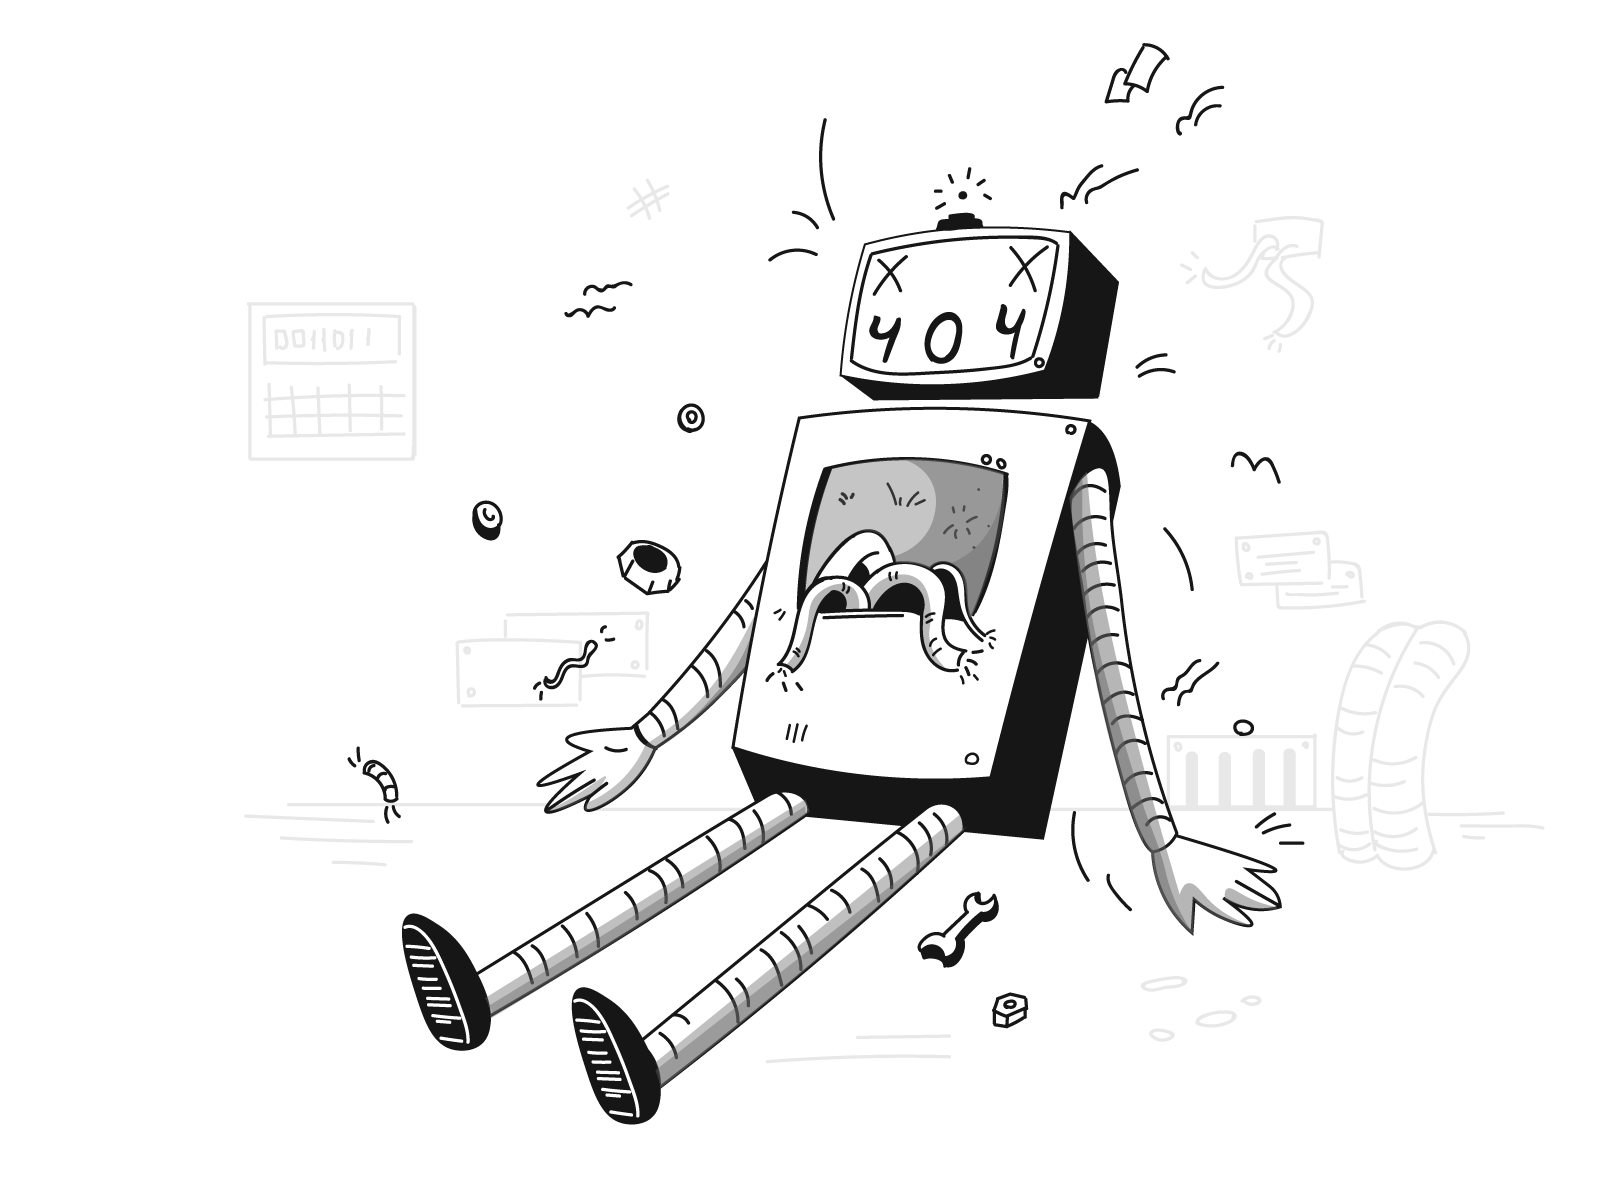
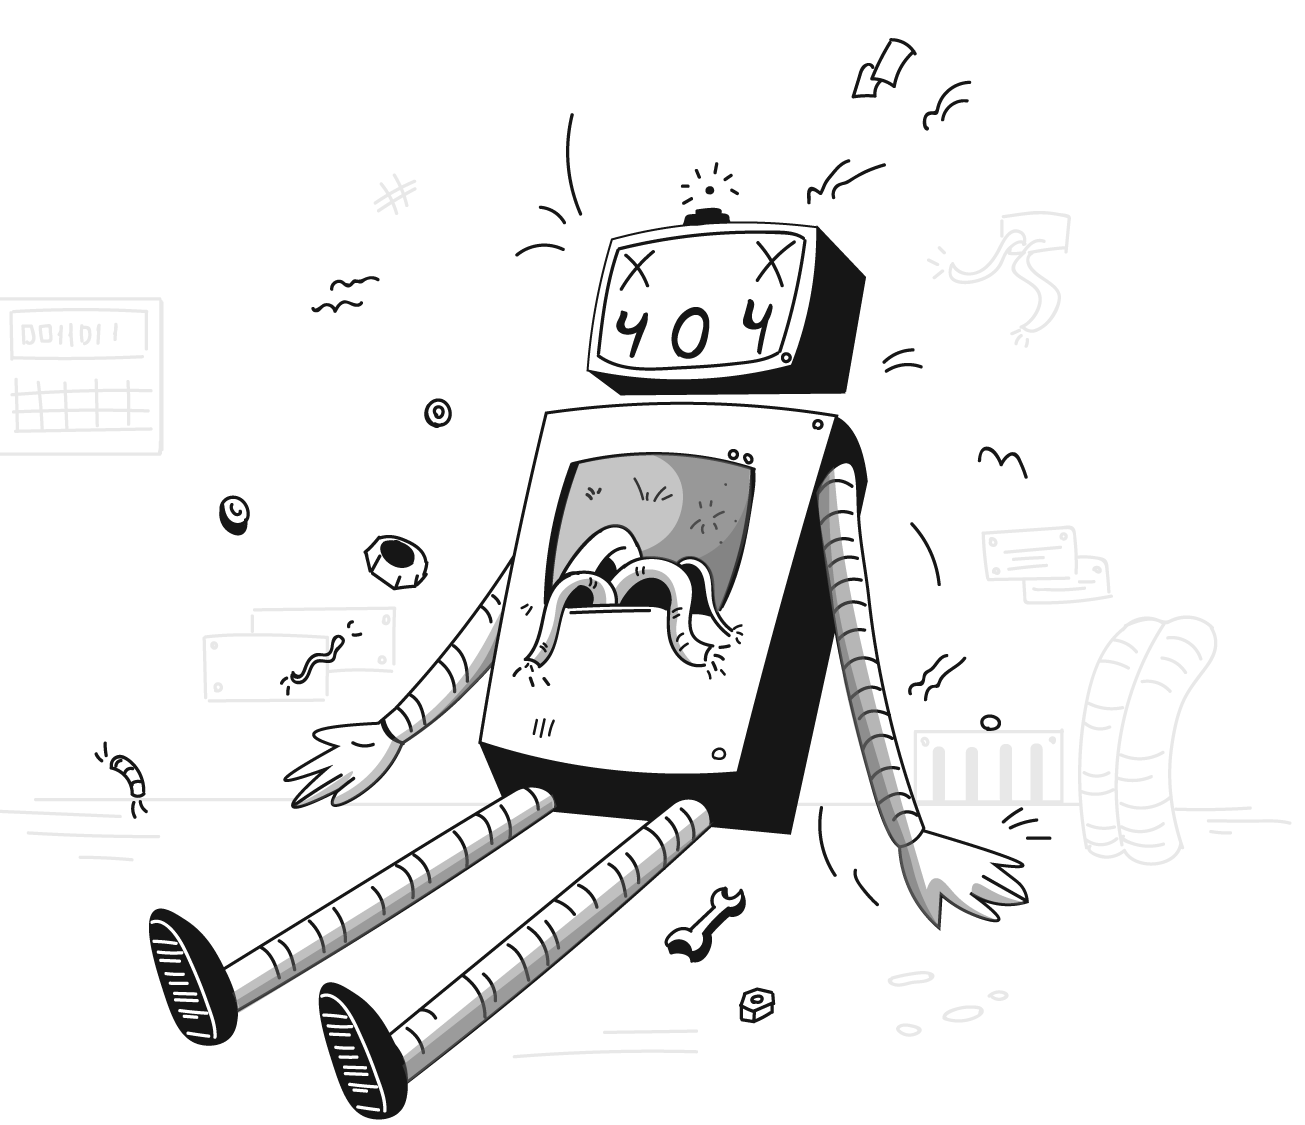
Add 404 page

diff --git a/pages/404.js b/pages/404.js
@@ -1,0 +1,27 @@
+import Link from "next/link";
+import Image from "next/image";
+
+import errorImg from "../public/images/error-bw.png";
+
+export default function ErrorPage() {
+	return (
+		<section className="max-w-7xl mx-auto relative">
+			<div className="flex flex-col-reverse lg:flex-row items-center px-12 my-12">
+				<div className="lg:w-1/2">
+					<h1 className="text-5xl text-indigo-900 mt-10 lg:mt-0">Oops!</h1>
+					<p className="text-lg pt-6 pb-3">This bee somehow buzzed away.</p>
+					<p className="text-lg">
+						Try navigating back to the{" "}
+						<Link className="text-indigo-900" href="/">
+							homepage
+						</Link>
+						.
+					</p>
+				</div>
+				<div className="lg:w-1/2">
+					<Image alt="robot" src={errorImg} />
+				</div>
+			</div>
+		</section>
+	);
+}

diff --git a/CHANGELOG.md b/CHANGELOG.md
@@ -13,5 +13,7 @@ All notable changes to this project will be documented in this file.
 - NotoSans font family
 - Homepage hero typewriter animation
 - Mobile menu
+- 404 page
+
 ### Changed
 - Split index into components
